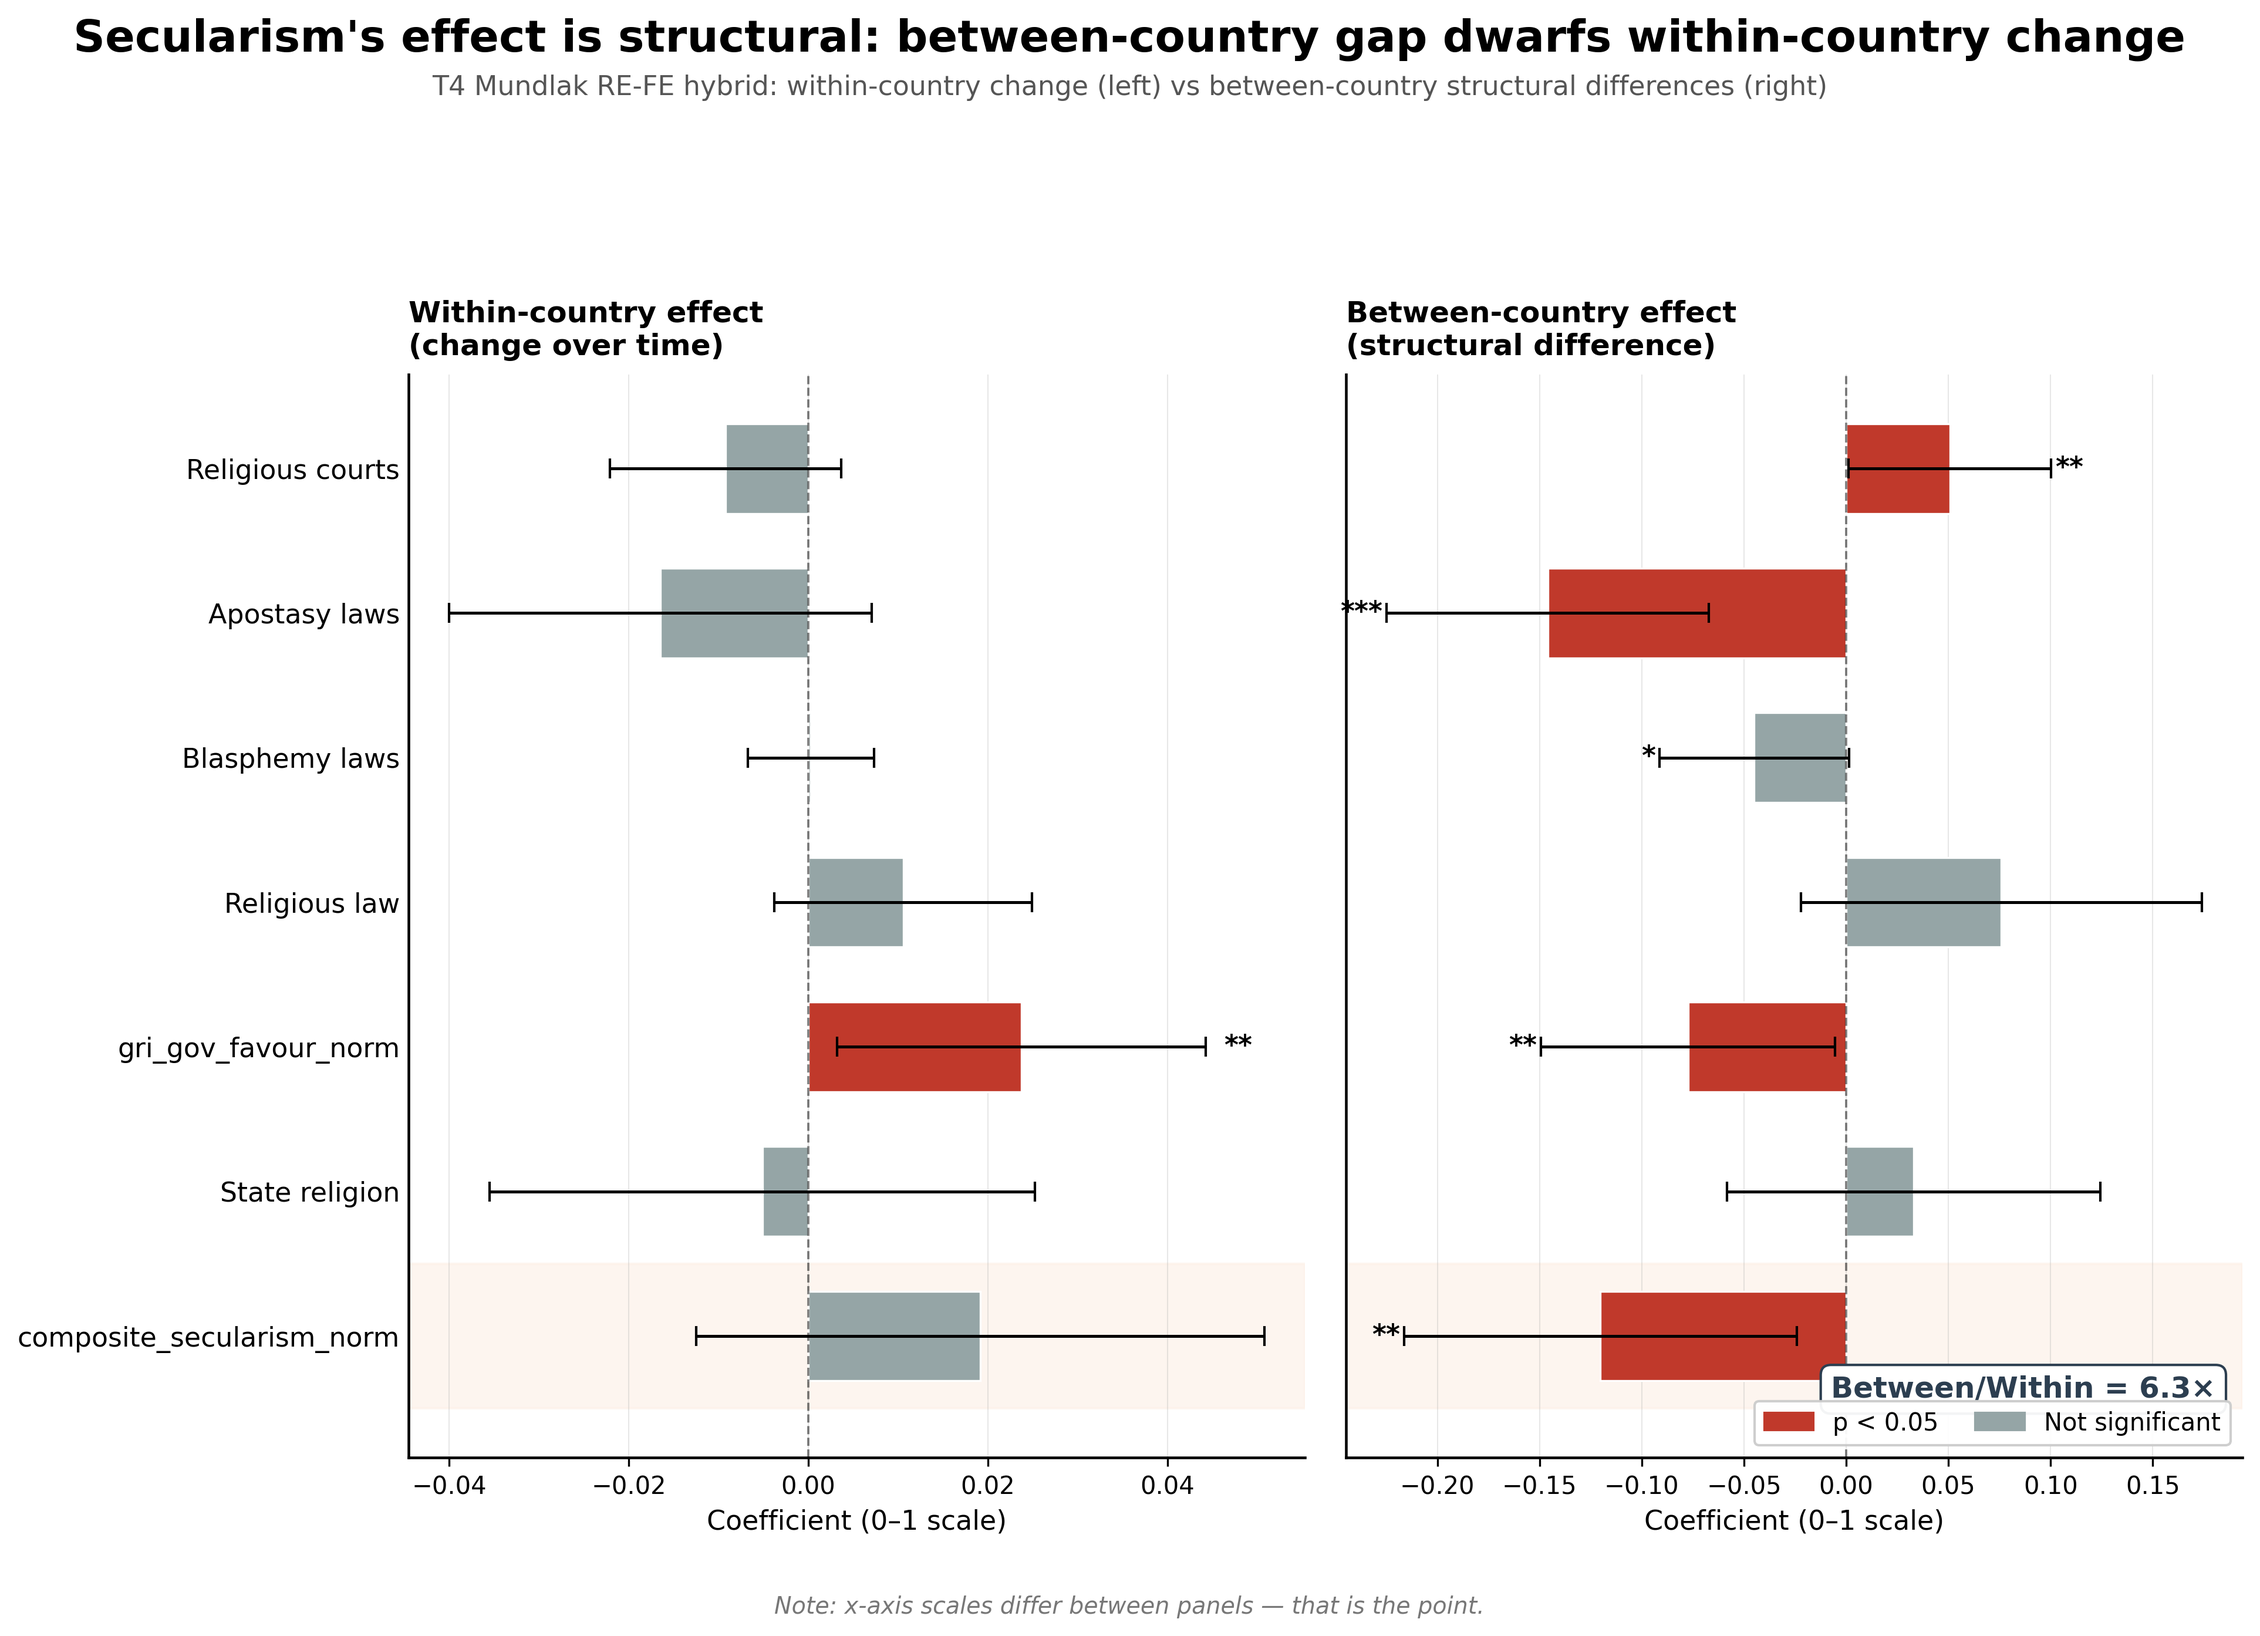
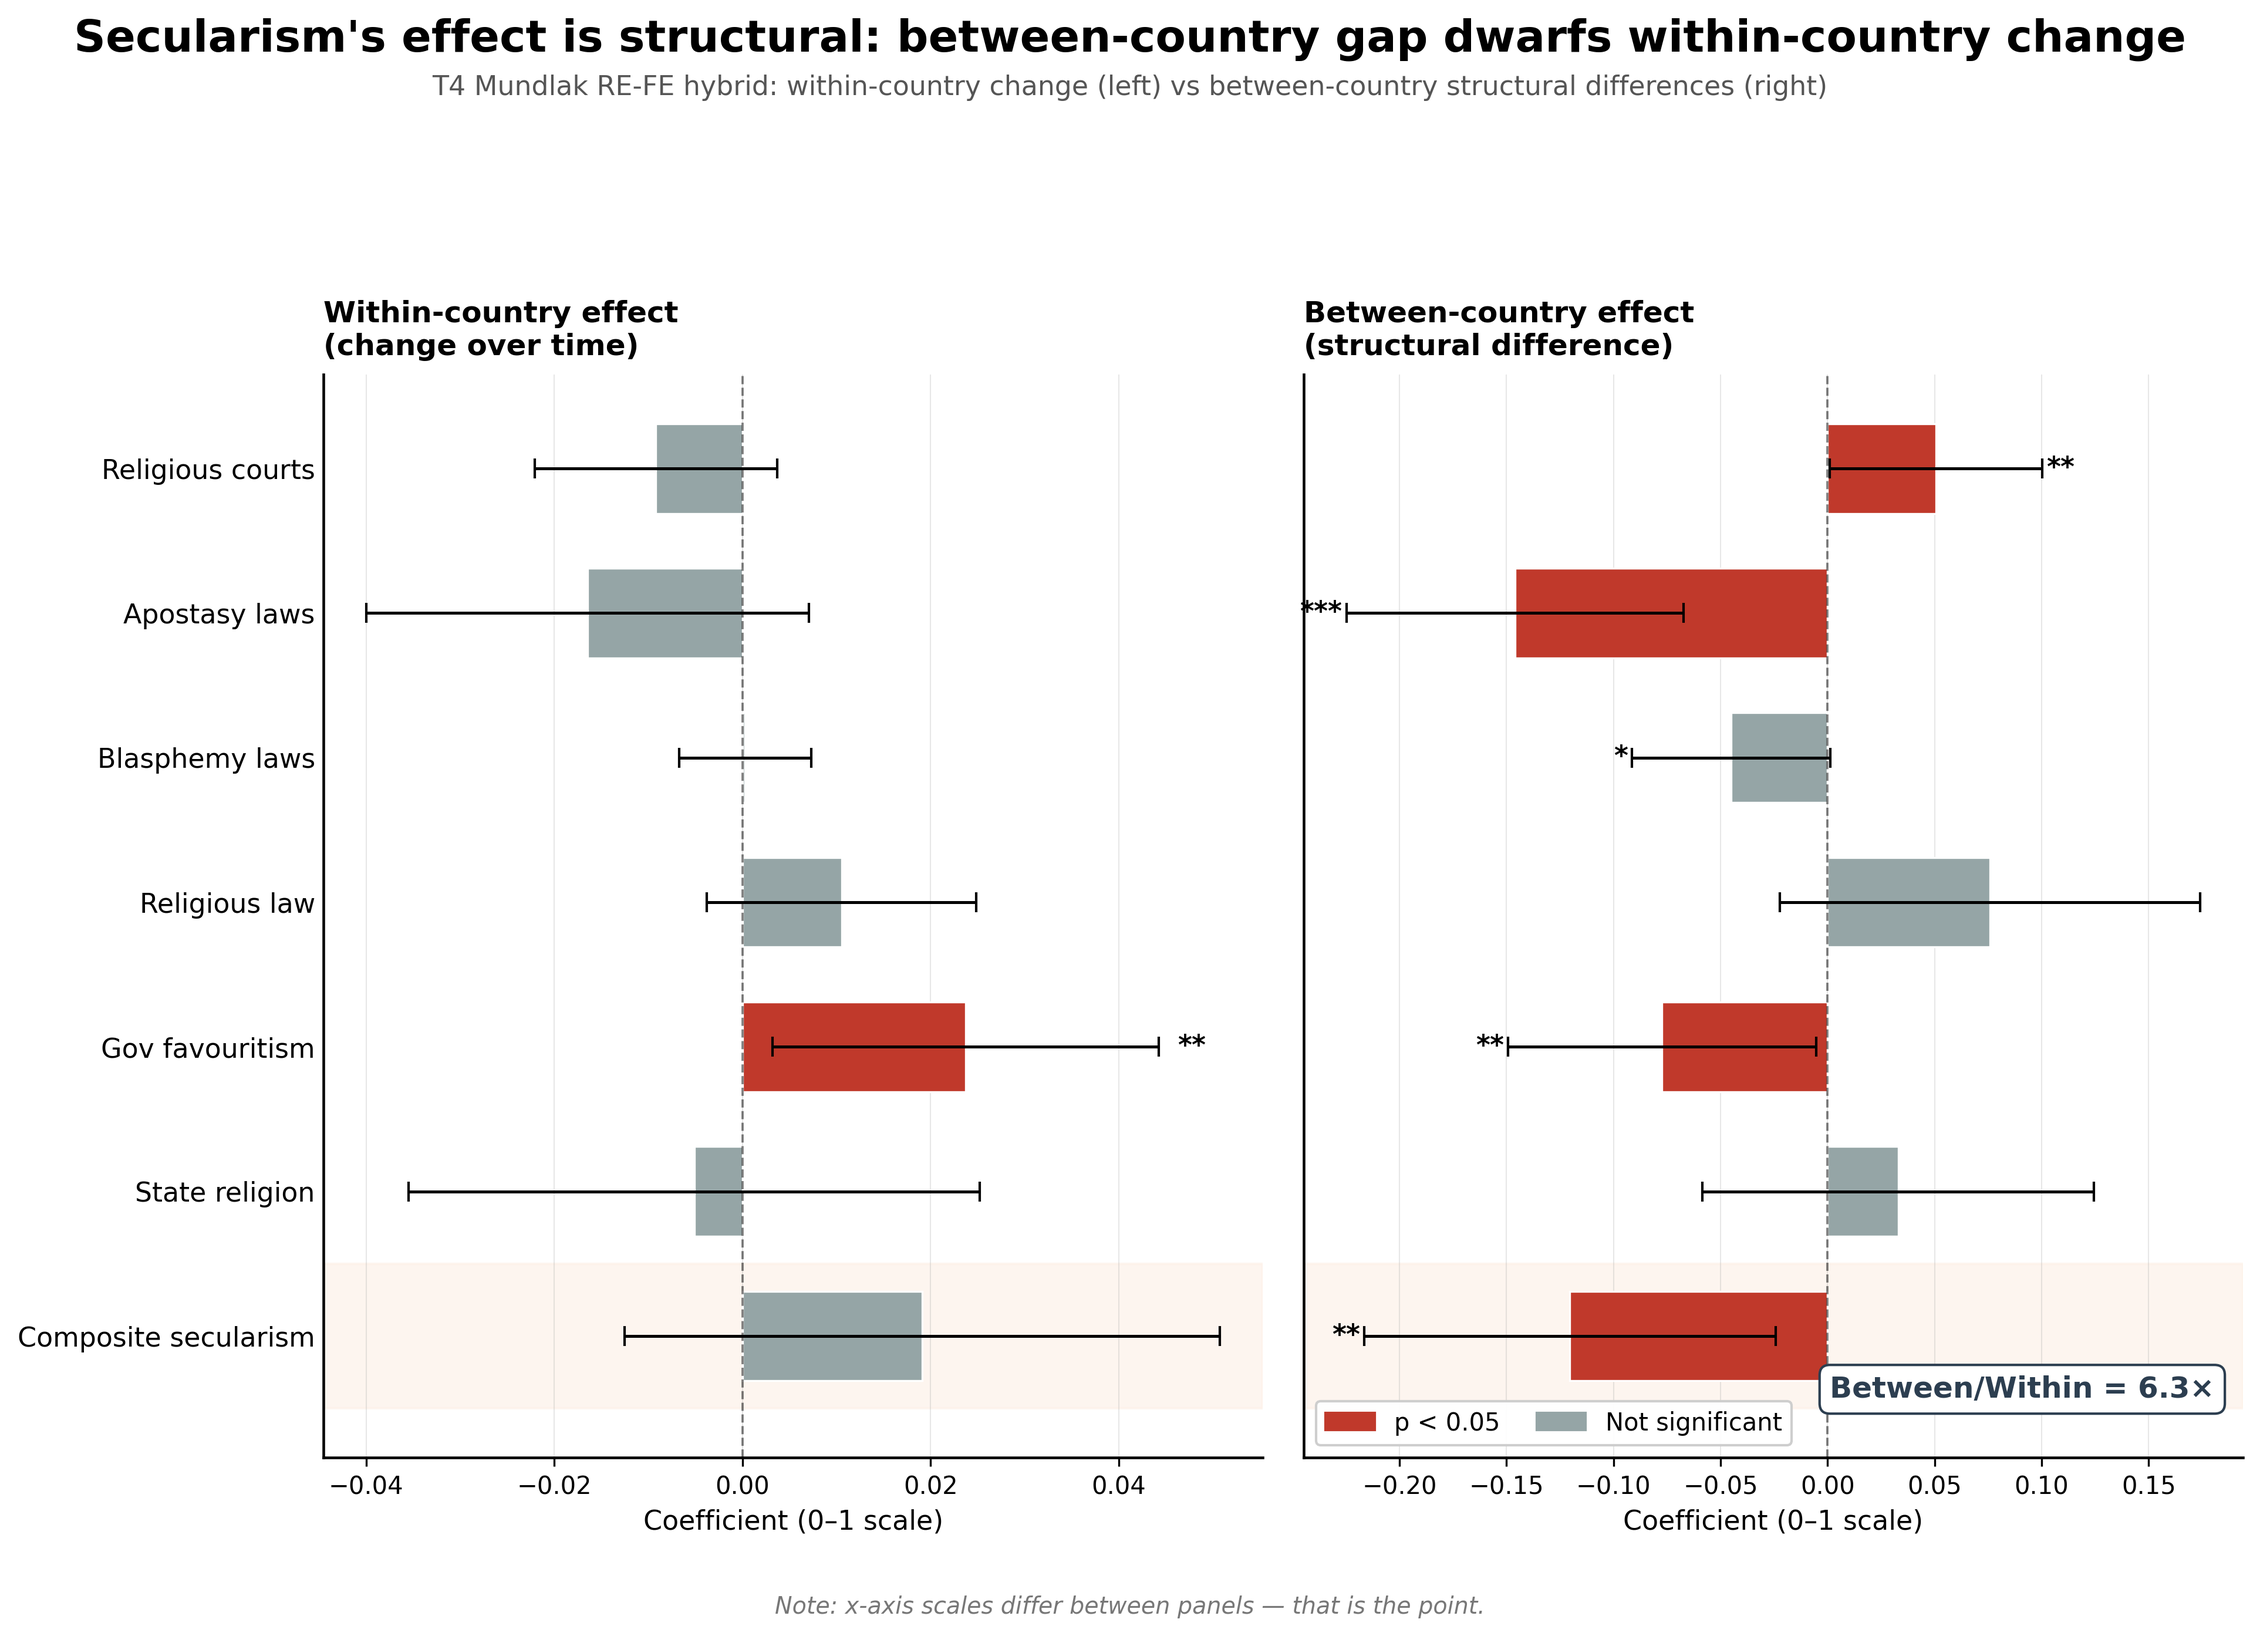
fix(figures): wbl Components label placement + mundlak pretty labels + legend overlap
Three small polish defects on the figures-rework branch:

1. plot_wbl_groups (figures/11_wbl_groups.png) — the left-margin
   "Components" label was drawn at y = n - 2.0, coincident with the
   Parenthood tick label, rendering a visual strikethrough on
   "Parenthood". Moved to y = n - 1.7 so it sits in the gap between
   the divider (at n - 1.5) and the Parenthood tick row (at n - 2),
   matching the stated intent "just below the divider... in the gap
   between the divider and the top component row". (Note: dispatch
   specified y = n - 1.2, but that value is ABOVE the divider, not
   below — arithmetic slip in the original instruction. Corrected to
   n - 1.7 to match the narrative intent; the "Overall" label at
   y = n - 0.5 is unchanged.)

2. plot_mundlak_decomposition (figures/12_mundlak_decomposition.png) —
   LABELS_SHORT dict was missing entries for gri_gov_favour_norm and
   composite_secularism_norm, so the LABELS_SHORT.get(var, var)
   fallback rendered those two rows with raw Python identifiers.
   Added "Gov favouritism" and "Composite secularism" entries matching
   the wording already in the longer LABELS dict.

3. plot_mundlak_decomposition — the significance legend (axes[1]) and
   the "Between/Within = 6.3x" ratio inset were both anchored to the
   right panel's lower-right and overlapping. Moved the legend to
   loc="lower left"; the apostasy bar extends leftwards so there is
   clear space. Ratio inset unchanged.
[…]

diff --git a/analysis/run_plots.py b/analysis/run_plots.py
@@ -1193,7 +1193,7 @@ def plot_wbl_groups():
         ax.text(-0.02, n - 0.5, "Overall",
                 transform=ax.get_yaxis_transform(),
                 fontsize=9, color="#555", ha="right", va="center")
-        ax.text(-0.02, n - 2.0, "Components",
+        ax.text(-0.02, n - 1.7, "Components",
                 transform=ax.get_yaxis_transform(),
                 fontsize=9, color="#555", ha="right", va="center")
 
@@ -1450,11 +1450,13 @@ def plot_between_within(df: pd.DataFrame):
 # 12. MUNDLAK WITHIN-VS-BETWEEN DECOMPOSITION
 # ═══════════════════════════════════════════════════════════════════════════════
 LABELS_SHORT = {
+    "composite_secularism_norm": "Composite secularism",
     "gri_state_religion_norm": "State religion",
     "gri_religious_law_norm":  "Religious law",
     "gri_blasphemy_norm":      "Blasphemy laws",
     "gri_apostasy_norm":       "Apostasy laws",
     "gri_religious_courts_norm": "Religious courts",
+    "gri_gov_favour_norm":     "Gov favouritism",
     "v2x_rule_norm":           "Rule of law",
     "v2x_civlib_norm":         "Civil liberties",
     "v2x_egal_norm":           "Egalitarianism",
@@ -1578,7 +1580,7 @@ def plot_mundlak_decomposition():
     # Put legend on the right panel (interior, lower-right) where there's
     # room — fig-level legend was wrapping/overlapping with the footer note.
     axes[1].legend(
-        handles=legend_els, loc="lower right",
+        handles=legend_els, loc="lower left",
         framealpha=0.95, fontsize=10, ncol=2, columnspacing=1.5,
     )
 
